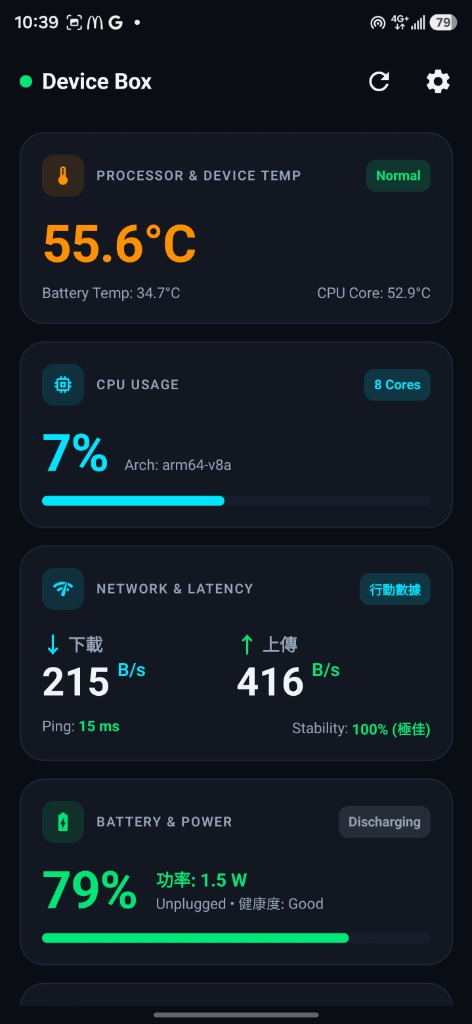
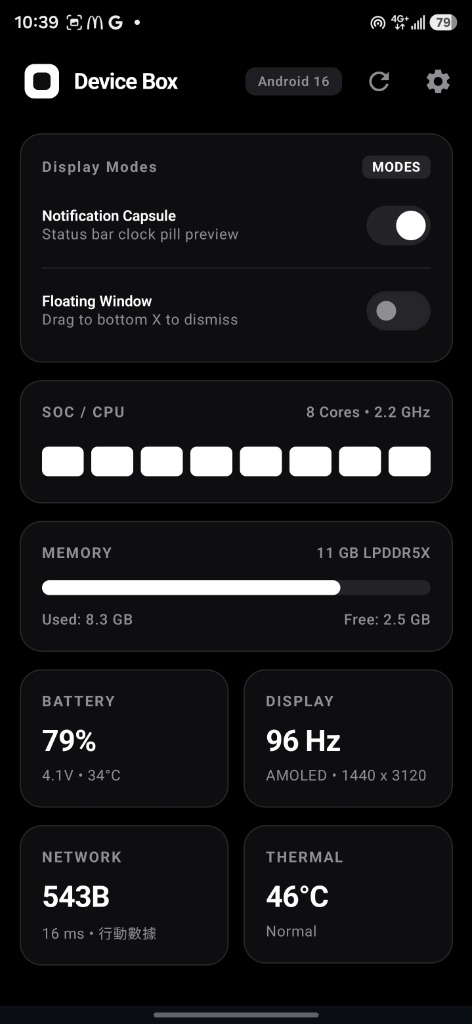
feat: 更新 Device Box 最新 App 圖示與主畫面實機截圖，移除舊 02 數據展示

diff --git a/src/data/apps.ts b/src/data/apps.ts
@@ -26,10 +26,9 @@ export const apps: App[] = [
       'Device Box 是一款專注於極簡美學與實用性的 Android 裝置資訊工具。有別於充滿干擾廣告與繁瑣列表的傳統系統檢視工具，Device Box 採用現代 Jetpack Compose 原生架構打造，將複雜的硬體參數與系統狀態重新梳理為優雅、直覺的卡片視圖，讓每位使用者都能輕鬆掌握手機核心規格。',
     version: '1.0.0',
     platform: 'Android',
-    icon: '/apps/device-box-icon.svg',
+    icon: '/apps/device-box-icon.png',
     screenshots: [
       '/apps/device-box/screenshot-1.png',
-      '/apps/device-box/screenshot-2.png',
       '/apps/device-box/screenshot-3.png',
       '/apps/device-box/screenshot-4.png'
     ],
